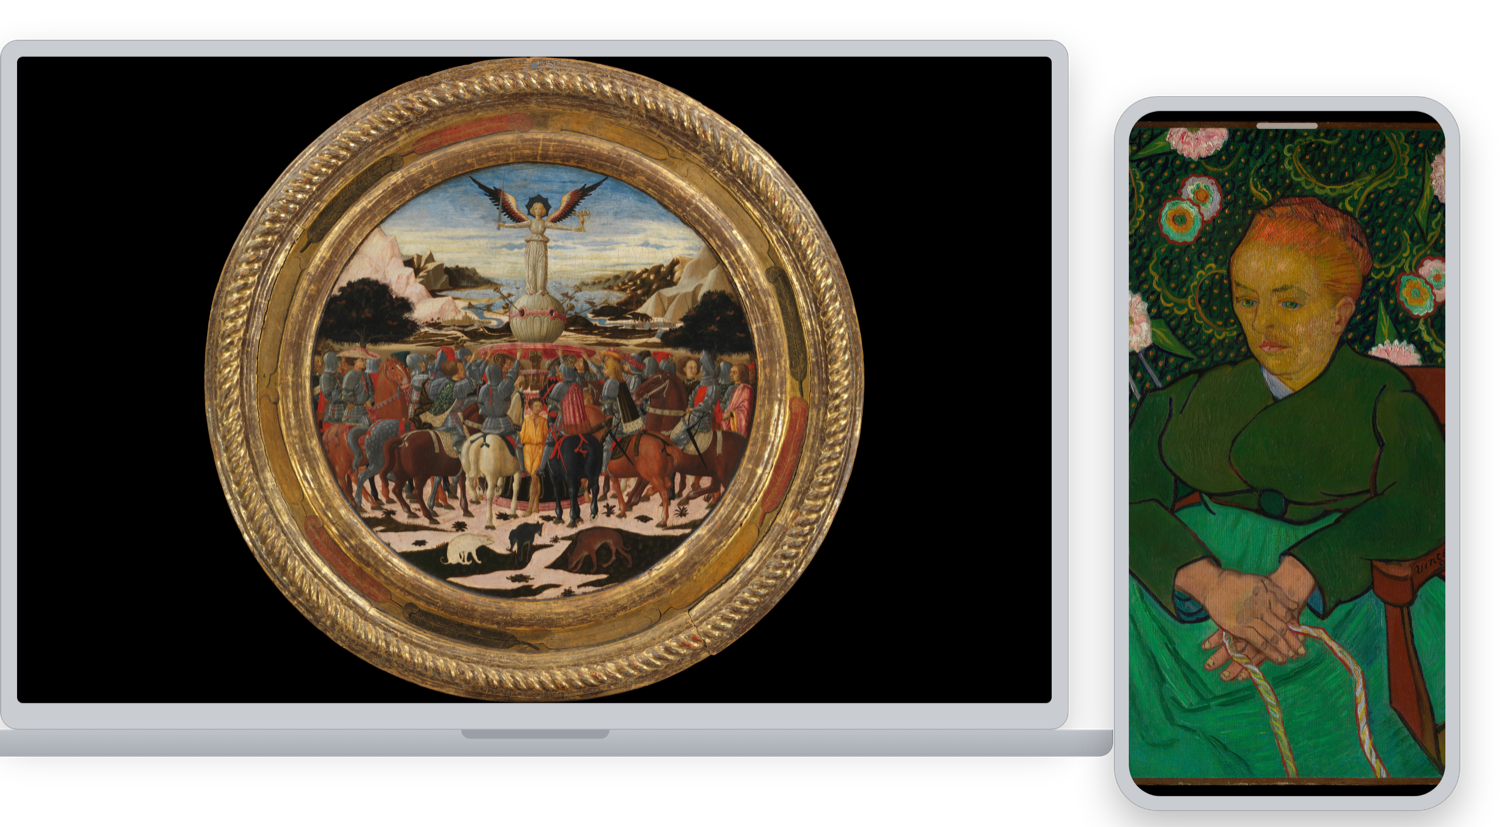
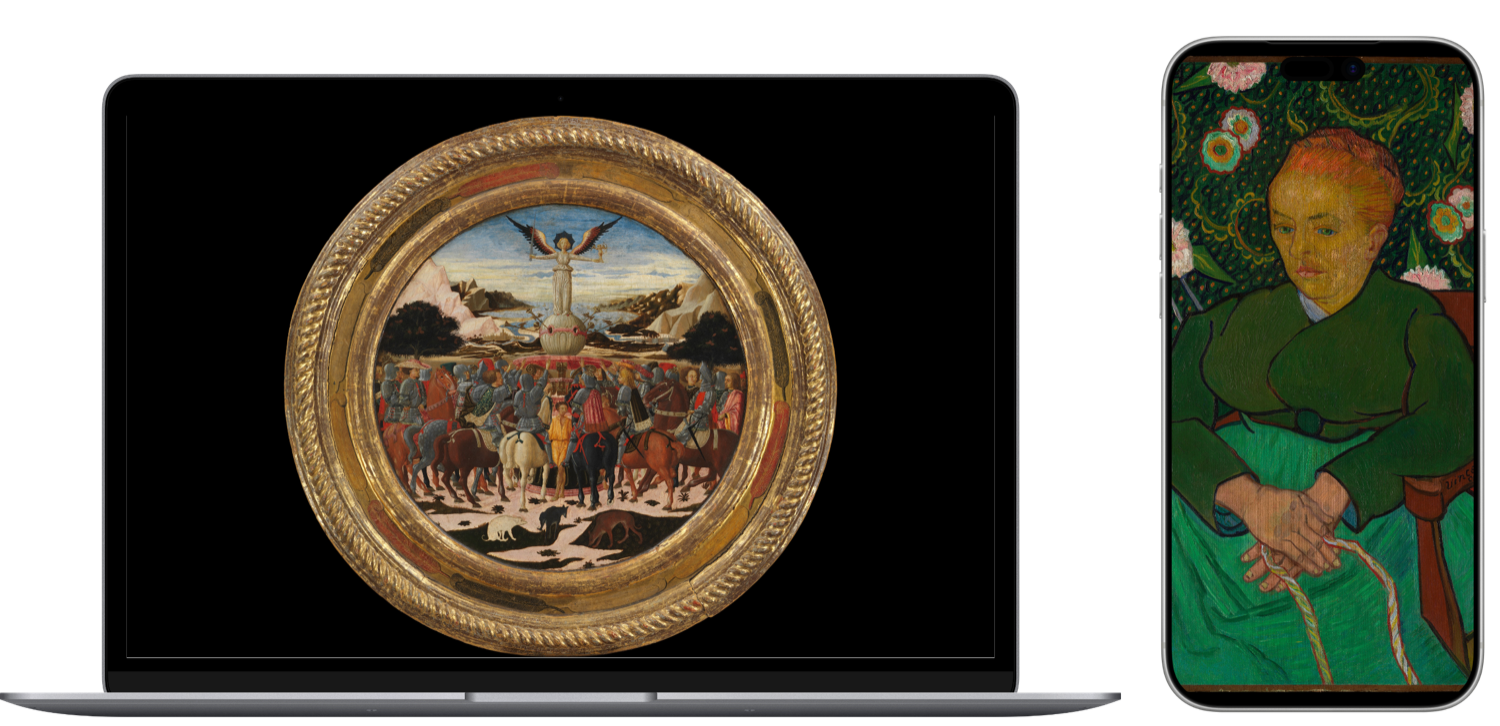
Use real device frames in the hero
The laptop and phone were drawn in CSS and looked it. They are now the MacBook
Air and iPhone frames from bunlongheng/frames, MIT-licensed PNGs with the screen
cut out, positioned from that set's own offsets.json rather than by eye.

The paintings still hang the way each platform hangs them: the tondo fitted whole
on the laptop with black margins, the van Gogh filling the phone.

diff --git a/README.md b/README.md
@@ -107,6 +107,7 @@ Artwork metadata and images come from [The Metropolitan Museum of Art Collection
 API](https://metmuseum.github.io/), under its open-access terms. Inspired by
 [Muzei](https://github.com/romannurik/muzei) by Roman Nurik and its
 [macOS port](https://github.com/naman14/Muzei-macOS) by Naman Dwivedi. This is an
-independent rewrite and shares no code with either.
+independent rewrite and shares no code with either. The device frames in the
+picture above come from [frames](https://github.com/bunlongheng/frames), MIT.
 
 MIT or Apache-2.0, at your option.
